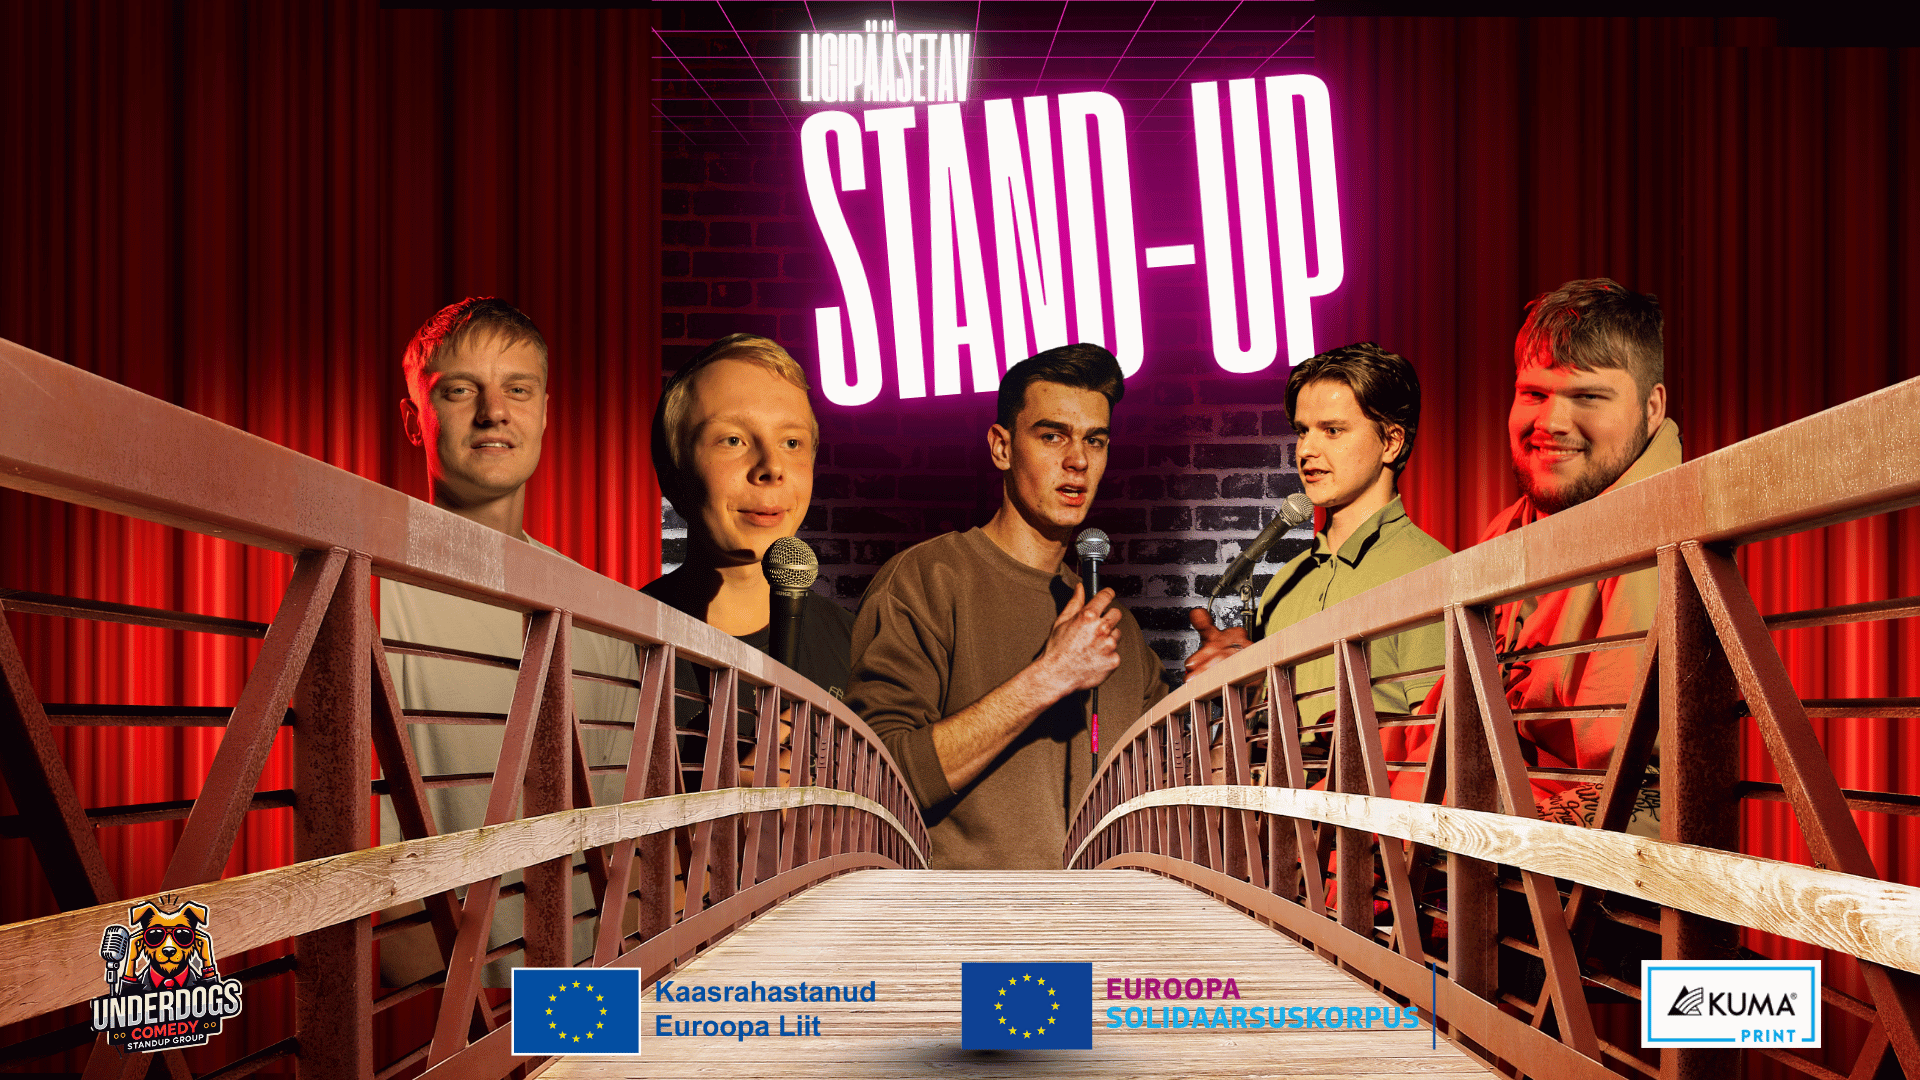
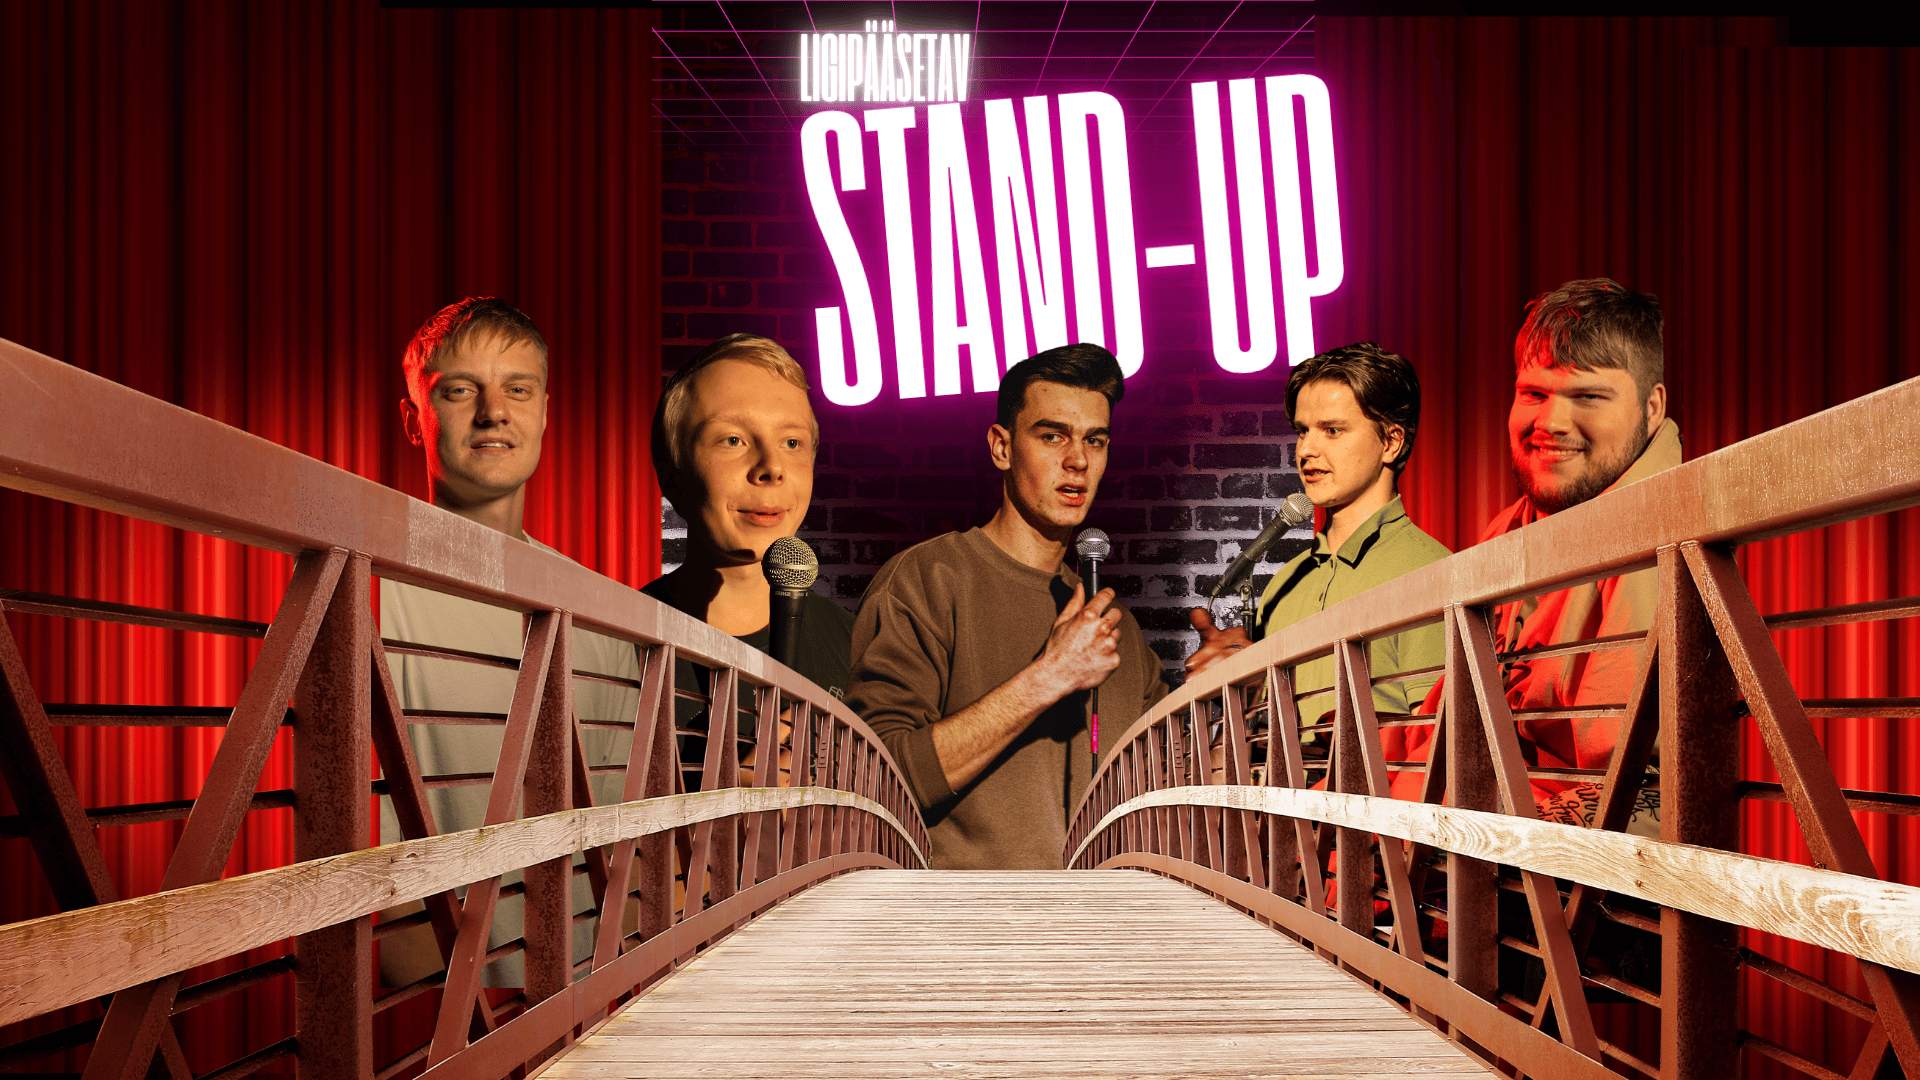
added new section with sponsors

diff --git a/index.html b/index.html
@@ -11,24 +11,28 @@
     window.dataLayer = window.dataLayer || [];
     function gtag(){dataLayer.push(arguments);}
     gtag('js', new Date());
-
     gtag('config', 'G-2MYD7NST72');
   </script>
 
-<script>
-  document.addEventListener("DOMContentLoaded", () => {
-    const shows = document.querySelectorAll(".show");
+  <script>
+    document.addEventListener("DOMContentLoaded", () => {
+      const upcomingList = document.querySelector("#upcomingShows");
+      const pastList = document.querySelector("#pastShows");
+      const upcomingWrapper = document.querySelector(".upcoming-schedule");
+      const pastWrapper = document.querySelector(".past-schedule");
 
-    shows.forEach(show => {
-      const timeEl = show.querySelector("time");
-      const link = show.querySelector("a.btn");
+      // Gather all .show items from anywhere on the page
+      const allShows = Array.from(document.querySelectorAll(".show"));
 
-      if (timeEl && link) {
-        const eventDate = new Date(timeEl.getAttribute("datetime"));
-        const now = new Date();
+      const now = new Date();
+      const parsed = allShows.map(li => {
+        const timeEl = li.querySelector("time");
+        const link = li.querySelector("a.btn");
+        const dateStr = timeEl?.getAttribute("datetime") || "";
+        const d = new Date(dateStr);
+        const isPast = !isNaN(+d) && d < now;
 
-        if (eventDate < now) {
-          // Disable link
+        if (isPast && link) {
           link.removeAttribute("href");
           link.removeAttribute("target");
           link.removeAttribute("rel");
@@ -36,11 +40,33 @@
           link.style.pointerEvents = "none";
           link.style.opacity = "0.6";
         }
-      }
-    });
-  });
-</script>
+        return { li, date: d, isPast };
+      });
 
+      // Clear lists before re-append
+      upcomingList.innerHTML = "";
+      pastList.innerHTML = "";
+
+      // Sort and append
+      const upcoming = parsed.filter(x => !x.isPast)
+        .sort((a, b) => (+a.date || 0) - (+b.date || 0));
+      const past = parsed.filter(x => x.isPast)
+        .sort((a, b) => (+b.date || 0) - (+a.date || 0));
+
+      upcoming.forEach(x => upcomingList.appendChild(x.li));
+      past.forEach(x => pastList.appendChild(x.li));
+
+      // Update counters
+      const upCountEl = upcomingWrapper.querySelector("summary .count");
+      const pastCountEl = pastWrapper.querySelector("summary .count");
+      if (upCountEl) upCountEl.textContent = `(${upcoming.length})`;
+      if (pastCountEl) pastCountEl.textContent = `(${past.length})`;
+
+      // If no items, soften the dropdown
+      if (!upcoming.length) upcomingWrapper.setAttribute("aria-disabled", "true");
+      if (!past.length) pastWrapper.setAttribute("aria-disabled", "true");
+    });
+  </script>
 
   <style>
     /* --- Design tokens --- */
@@ -115,18 +141,28 @@
       margin-inline:auto;
     }
 
-    /* --- Actions --- */
+    /* Center the "Kutsu meid esinema" button */
     .actions{
       margin: 28px auto 0;
-      display: grid;
-      grid-template-columns: repeat(auto-fit, minmax(220px, 1fr));
-      gap: 14px;
-      max-width: 720px;
+      display: flex;
+      justify-content: center;
+      align-items: center;
+      gap: 14px;            /* if you add more buttons later */
+      max-width: 720px;     /* optional: keeps it tidy on wide screens */
+      text-align: center;   /* fallback */
     }
-    @media (max-width: 560px){ .actions{ grid-template-columns: 1fr } }
+    @media (max-width: 560px){
+      .actions{
+        flex-direction: column;
+      }
+      .actions .btn{
+        width: 100%;
+        max-width: 360px;   /* optional: nice width on mobile */
+      }
+    }
 
-    /* --- Calendar --- */
-    .schedule{ margin-top: 28px }
+
+    /* --- Shows list --- */
     .shows{ list-style:none; margin:0; padding:0; display:grid; gap:14px }
     .show{
       display:flex;
@@ -160,31 +196,88 @@
       border-color: color-mix(in oklab, var(--accent) 35%, #000);
     }
     .btn--primary:hover{ filter: brightness(1.08) }
-
     .btn--secondary{
       background: linear-gradient(180deg, color-mix(in oklab, var(--accent-2) 22%, #000), #1d2a35);
       border-color: color-mix(in oklab, var(--accent-2) 35%, #000);
     }
-
     .btn:focus-visible{ outline: 3px solid color-mix(in oklab, var(--accent) 65%, white); outline-offset: 3px; }
 
-    /* --- Instagram section --- */
+    /* --- Dropdowns (details) --- */
+    details.schedule-box {
+      margin-top: 16px;
+      border: 1px solid rgba(255,255,255,.06);
+      background: color-mix(in oklab, var(--panel) 94%, black);
+      border-radius: var(--radius);
+      box-shadow: var(--shadow);
+      overflow: hidden;
+    }
+    details.schedule-box[open] summary { border-bottom: 1px solid rgba(255,255,255,.06); }
+    details.schedule-box[aria-disabled="true"] { opacity: .7; }
+    details.schedule-box summary {
+      list-style: none;
+      cursor: pointer;
+      padding: 16px 20px;
+      display: flex;
+      align-items: center;
+      gap: 10px;
+      font-weight: 800;
+      user-select: none;
+      font-size: clamp(18px, 2.8vw, 22px);
+    }
+    details.schedule-box summary::-webkit-details-marker { display:none }
+    .caret {
+      display:inline-block;
+      width: 0; height: 0;
+      border-left: 6px solid transparent;
+      border-right: 6px solid transparent;
+      border-top: 8px solid var(--text);
+      transform: rotate(180deg); /* default open caret points up */
+      transition: transform .18s ease;
+    }
+    details[open] .caret { transform: rotate(180deg); }
+    details:not([open]) .caret { transform: rotate(0deg); }
+    details.schedule-box .inner { padding: 16px 20px; }
+
+    /* --- Sponsors --- */
+    .sponsors {
+      margin-top: clamp(28px, 6vw, 70px);
+      background: #1d1e20;
+      padding: clamp(28px, 6vw, 50px) var(--space);
+      text-align: center;
+      width: 100%;
+    }
+    .sponsors h2 {
+      color: var(--accent-2);
+      margin-bottom: 28px;
+    }
+    .sponsor-logos {
+      display: flex; justify-content: center; align-items: center; gap: 40px; flex-wrap: wrap;
+    }
+    .sponsor-logos img {
+      max-height: 80px; width: auto; object-fit: contain; border-radius: 8px; padding: 6px;
+    }
+    .sponsor-cta {
+      margin-top: 22px;
+      color: var(--muted);
+      font-size: clamp(15px, 2.4vw, 17px);
+    }
+    .sponsor-cta a {
+      color: var(--accent-2);
+      text-decoration: underline;
+    }
+
+    /* --- Instagram --- */
     footer{ margin-top: clamp(28px, 6vw, 70px); background: linear-gradient(0deg, rgba(255,255,255,.04), rgba(255,255,255,0)); border-top: 1px solid rgba(255,255,255,.06); }
-
     .ig-wrap{ padding: clamp(20px, 5vw, 36px) var(--space) calc(var(--space) * 2); text-align:center; }
-    footer h2{ color: var(--accent); font-size: clamp(18px, 2.8vw, 22px); margin: 0 0 16px; }
-
-    /* Keep a single row on larger screens; single column on mobile */
+    footer h2{ color: var(--accent); margin: 0 0 16px; }
     .ig-grid{ display:flex; gap:12px; justify-content:center; align-items:stretch; flex-wrap:nowrap; max-width:var(--container); margin:0 auto; overflow-x:auto; scroll-snap-type:x proximity; }
     .ig-item{ display:flex; align-items:center; justify-content:center; gap:10px; background: var(--panel); border: 1px solid rgba(255,255,255,.06); padding: 12px 14px; border-radius: calc(var(--radius) - 6px); transition: background .25s ease, transform .08s ease; min-height: 52px; scroll-snap-align:start; }
     .ig-item:hover{ background: #1f2125 }
     .ig-item:active{ transform: translateY(1px) }
     .ig-item img{ width:20px; height:20px; filter: brightness(0) invert(1) }
     .handle{ font-size: 16px }
-
     @media (max-width: 600px){ .ig-grid{ flex-direction: column; flex-wrap: nowrap; overflow-x: clip; } .ig-item{ width:100%; } }
 
-    /* --- Motion preference --- */
     @media (prefers-reduced-motion: reduce){ .btn, .ig-item{ transition: none } }
   </style>
 </head>
@@ -219,16 +312,56 @@
       </div>
     </section>
 
-    <section class="content schedule" aria-label="Šõude kalender">
-      <h2>Eelseisvad šõud</h2>
-      <ul class="shows">
-        <li class="show">
-          <span><time datetime="2025-08-22">22. august 2025</time> – Mustla rahvamaja</span>
-          <a class="btn btn--primary" href="https://fienta.com/et/mustla-stand-up-ohtu" target="_blank" rel="noopener noreferrer">Broneeri tasuta koht siit</a>
-        </li>
-      </ul>
-    </section>
+    <!-- Upcoming shows dropdown (open by default) -->
+    <details class="schedule-box upcoming-schedule content" open aria-label="Eelseisvate šõude kalender">
+      <summary>
+        <span class="caret" aria-hidden="true"></span>
+        Eelseisvad šõud <span class="count" style="opacity:.8; font-weight:600">(…)</span>
+      </summary>
+      <div class="inner">
+        <ul class="shows" id="upcomingShows">
+          <!-- Pre-seeded items; script will sort and manage them -->
+          <li class="show">
+            <span><time datetime="2025-08-22">22. august 2025</time> – Mustla rahvamaja</span>
+            <a class="btn btn--primary" href="https://fienta.com/et/mustla-stand-up-ohtu" target="_blank" rel="noopener noreferrer">Broneeri tasuta koht siit</a>
+          </li>
+          <li class="show">
+            <span><time datetime="2025-10-31">31. oktoober 2025</time> – Tapa kultuurikoda</span>
+            <a class="btn btn--primary" href="#" aria-label="Broneerimine peagi">Broneerimine peagi</a>
+          </li>
+          <li class="show">
+            <span><time datetime="2025-11-21">21. november 2025</time> – Sindi seltsimaja</span>
+            <a class="btn btn--primary" href="#" aria-label="Broneerimine peagi">Broneerimine peagi</a>
+          </li>
+        </ul>
+      </div>
+    </details>
+
+    <!-- Past shows dropdown -->
+    <details class="schedule-box past-schedule content" aria-label="Varasemate šõude arhiiv">
+      <summary>
+        <span class="caret" aria-hidden="true"></span>
+        Toimunud šõud <span class="count" style="opacity:.8; font-weight:600">(…)</span>
+      </summary>
+      <div class="inner">
+        <ul class="shows" id="pastShows"></ul>
+      </div>
+    </details>
   </main>
+
+  <!-- Sponsors -->
+  <section class="sponsors" aria-label="Sponsorid">
+    <h2>Meie toetajad</h2>
+    <div class="sponsor-logos">
+      <img src="./logos/kr-eu-trans.png" alt="Kaasrahastanud Euroopa Liit" />
+      <img src="./logos/sol-eu-trans.png" alt="Euroopa Solidaarsuskorpus" />
+      <img src="./logos/kuma-trans.png" alt="Kuma Print" />
+    </div>
+    <p class="sponsor-cta">
+      Kas soovid ka oma panuse anda? Kirjuta meile
+      <a href="mailto:info@ligipaasetav.eu">info@ligipaasetav.eu</a>
+    </p>
+  </section>
 
   <footer>
     <div class="ig-wrap container">
